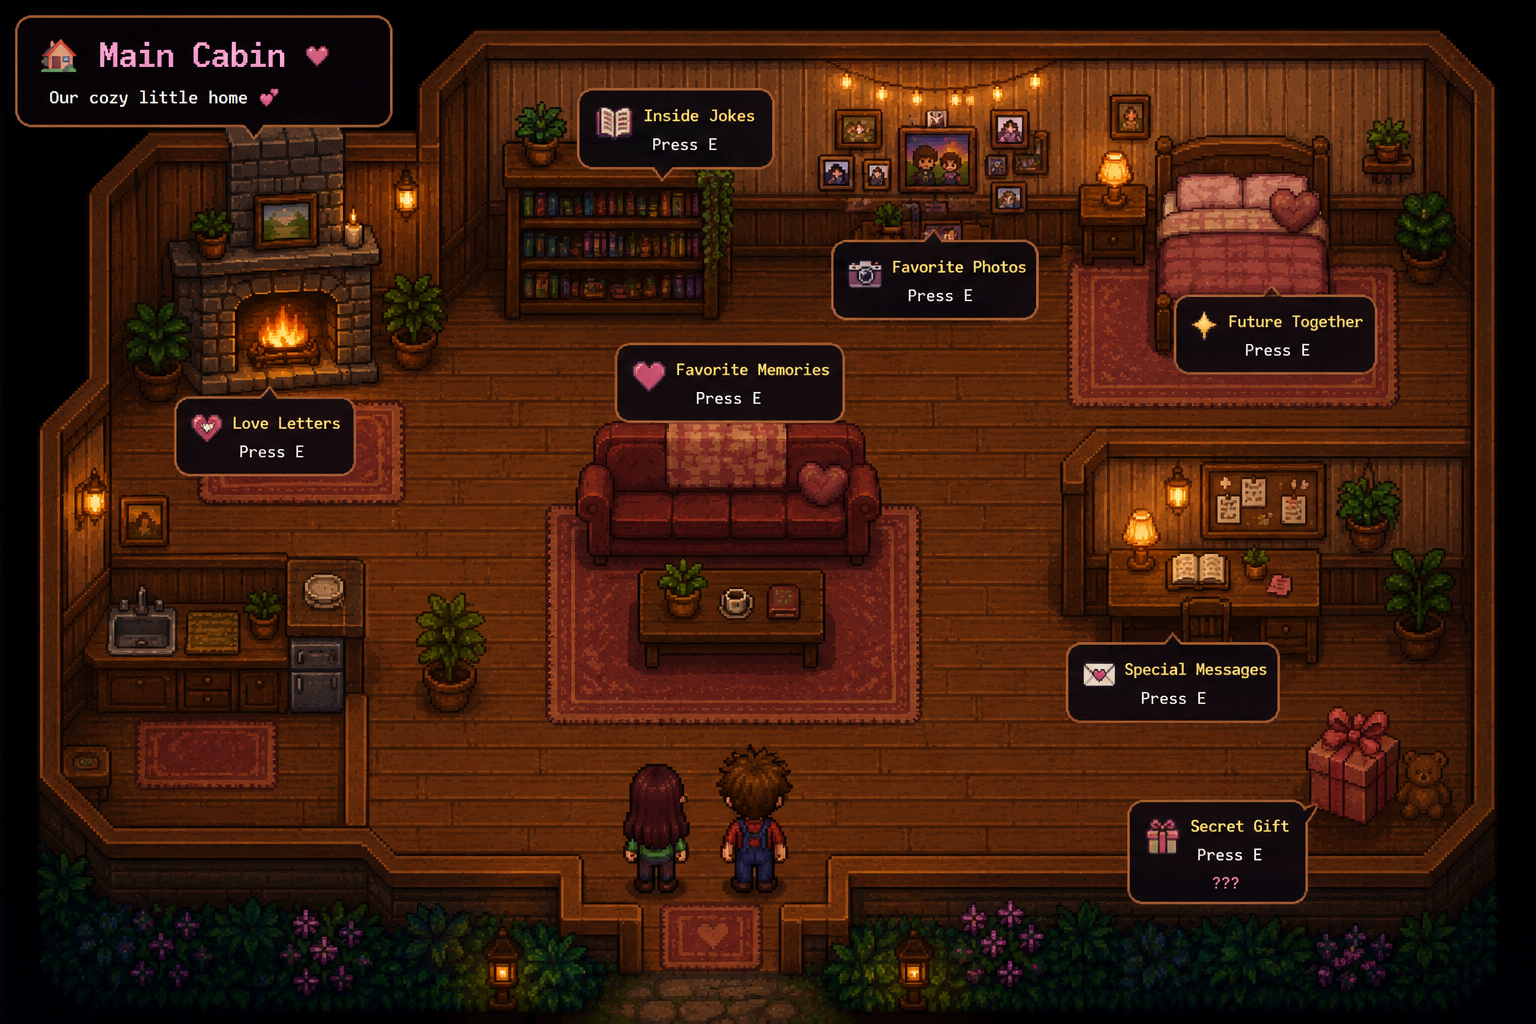
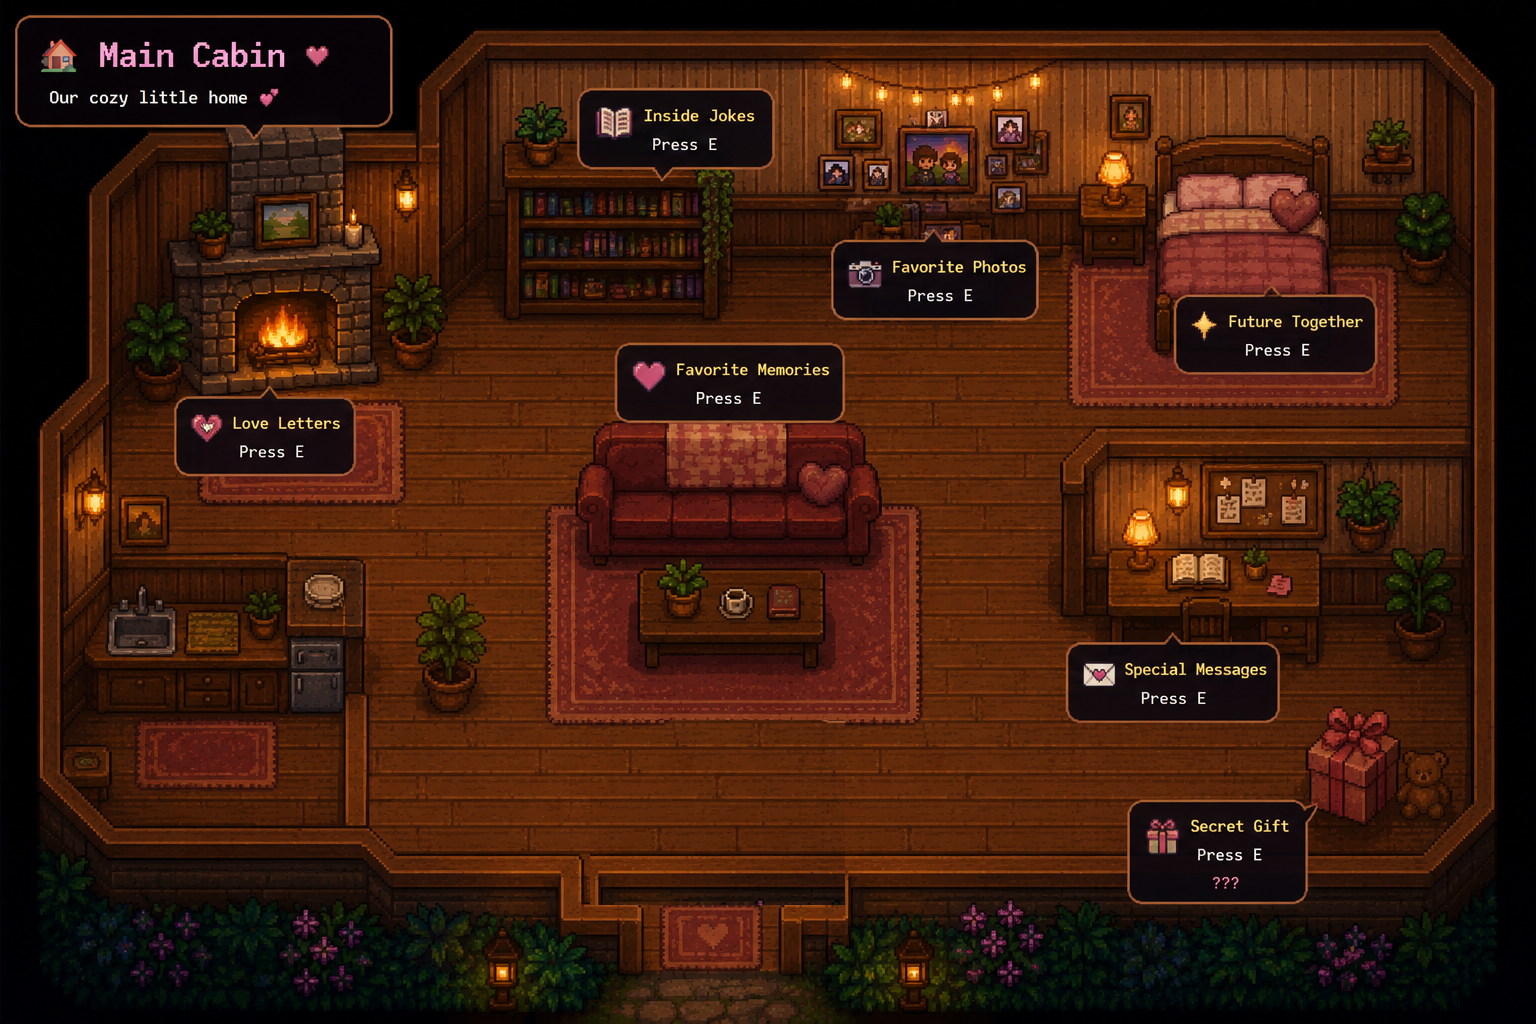
Add files via upload

Changed region(s): [[0.375, 0.6875, 0.5625, 0.9062]]

diff --git a/js/cabin.js b/js/cabin.js
@@ -32,9 +32,9 @@ let heartTimer = 0;
 let lastE = false;
 
 const players = {
-  her:{img:herImg, x:720, y:835, dir:'up', frame:0, speed:3.0, scale:.58,
+  her:{img:herImg, x:710, y:835, dir:'up', frame:0, speed:3.0, scale:.82,
        rows:{down:0, up:2, left:3, right:1}, frames:{down:[0,1,2,3], up:[0,1,2,3], left:[0,1,2,3], right:[0,1,2,3]}},
-  him:{img:himImg, x:815, y:835, dir:'up', frame:0, speed:3.0, scale:.58,
+  him:{img:himImg, x:805, y:835, dir:'up', frame:0, speed:3.0, scale:.82,
        rows:{down:0, up:2, left:3, right:1}, frames:{down:[0,1,2], up:[0,1,2], left:[0,1,2], right:[0,1,2]}}
 };
 
@@ -174,9 +174,9 @@ function drawPixelHeart(x,y,size){
 
 function drawCoupleHeart(){
   const distance = Math.hypot(players.her.x-players.him.x, players.her.y-players.him.y);
-  if(distance > 48) return;
+  if(distance > 60) return;
   const midX=(players.her.x+players.him.x)/2-camera.x;
-  const midY=Math.min(players.her.y,players.him.y)-camera.y-55;
+  const midY=Math.min(players.her.y,players.him.y)-camera.y-78;
   const float=Math.sin(heartTimer/12)*5;
   const pulse=Math.sin(heartTimer/10)>0?4:3;
   ctx.save();